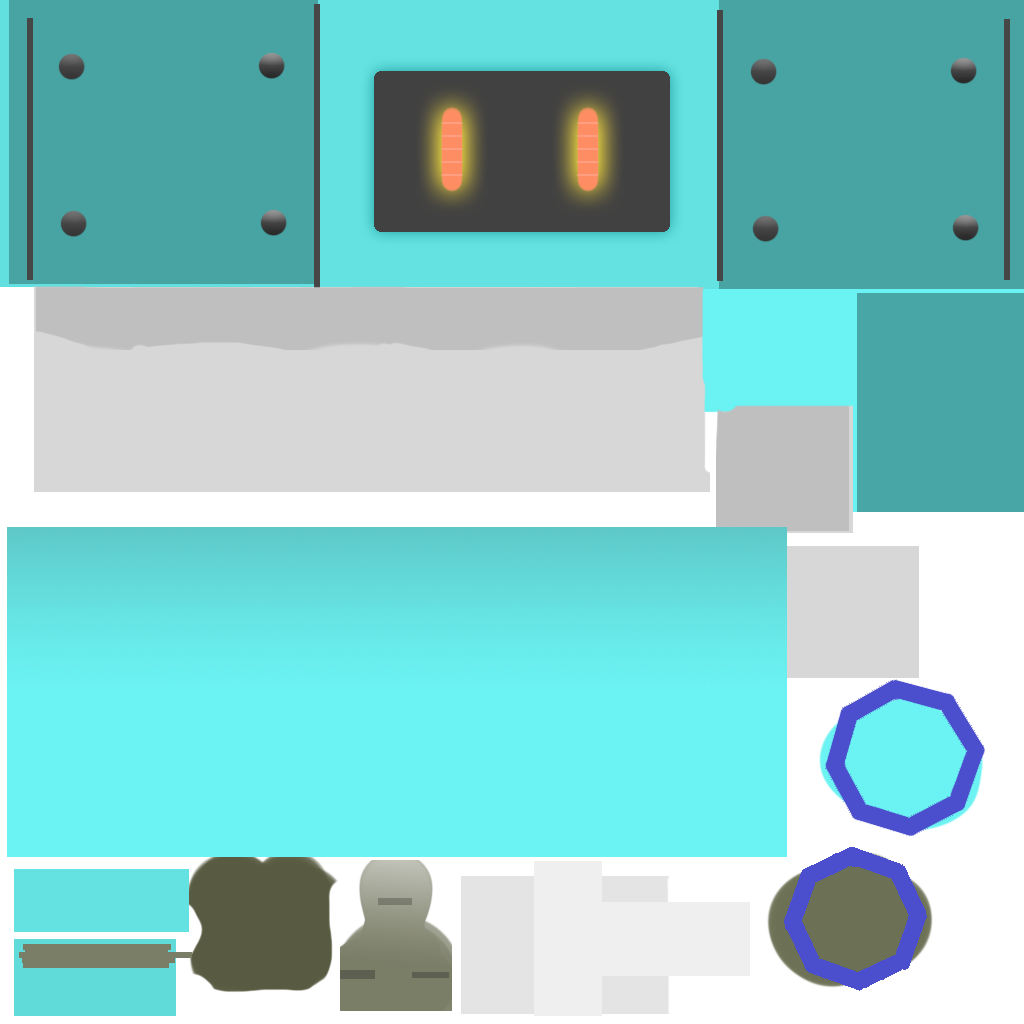
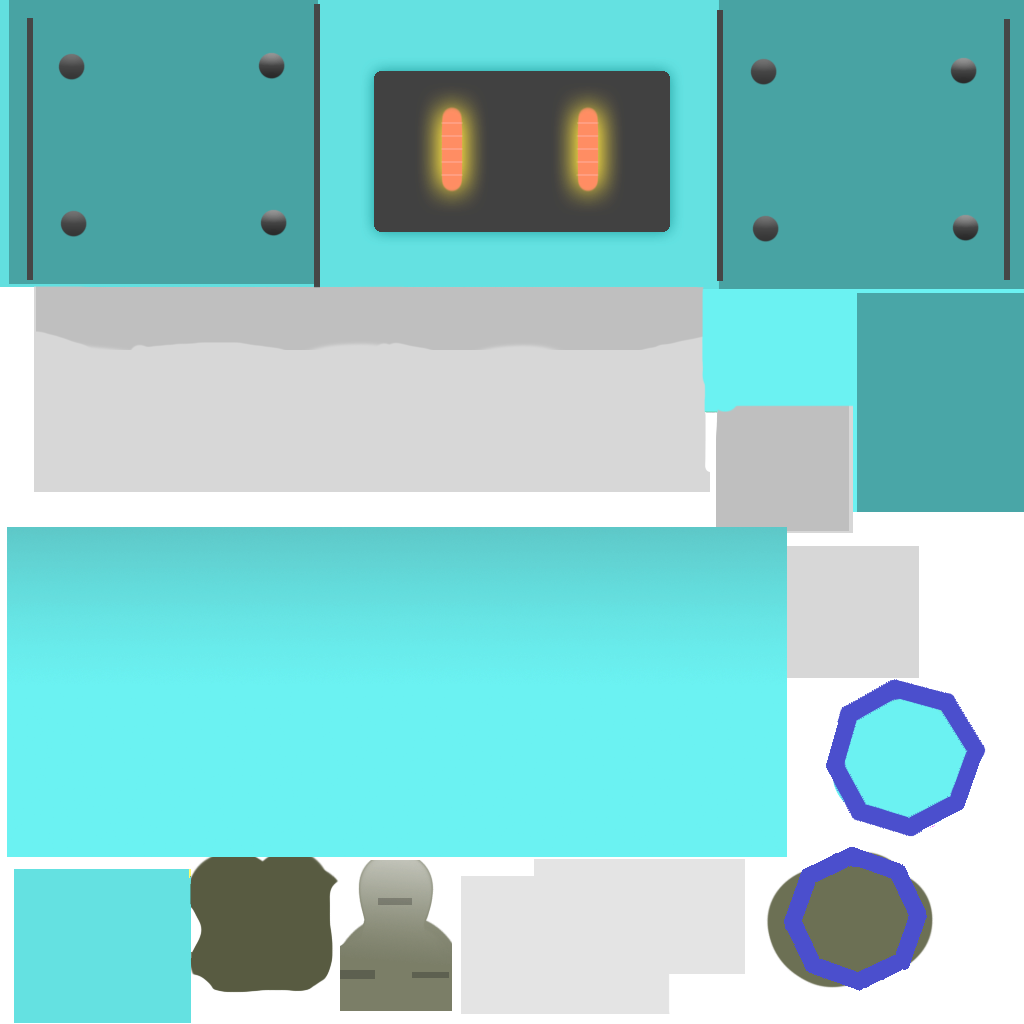
森さん手動マージ

diff --git a/ES Game Library/ES Game Library/MyClass/Scenes/SelectScene/SelectScene.h b/ES Game Library/ES Game Library/MyClass/Scenes/SelectScene/SelectScene.h
@@ -16,24 +16,38 @@ public:
 
 private:
 
+	enum { TEXTURE_MAX = 7 };
+
 	EFFECT _shader;
 	SPRITE _texture[PLAYER_COUNT_MAX];
 	SPRITE _bg_sprite;
 	SPRITE _banner;
 	SPRITE _button_ready;
 	SPRITE _button_go;
+	SPRITE _chara_frame;
+	SPRITE _button_frame;
+	SPRITE _left_arrow_A;
+	SPRITE _left_arrow_B;
+	SPRITE _right_arrow_A;
+	SPRITE _right_arrow_B;
 	ANIMATIONMODEL _player_model;
+
+	int _select_count = 0;
 
 	int _chara_select[PLAYER_COUNT_MAX];
 	float _player_position[PLAYER_COUNT_MAX];
 	bool _player_button_flag[PLAYER_COUNT_MAX];
 
-	bool _select_complete_flag;
-	enum 
+	bool _select_complete_flag[PLAYER_COUNT_MAX];
+	bool _game_start_flag = false;
+	enum
 	{
 		RED,
 		BLUE,
 		GREEN,
-		YELLOW
+		YELLOW,
+		LIGHTBLUE,
+		PINK,
+		PURPLE
 	};
 };

diff --git a/ES Game Library/ES Game Library/MyClass/Scenes/Title/TitleScene.cpp b/ES Game Library/ES Game Library/MyClass/Scenes/Title/TitleScene.cpp
@@ -66,7 +66,6 @@ int TitleScene::Update()
 void TitleScene::Draw2D()
 {
 
-
 	SpriteBatch.Draw(*_background, Vector3(0.0f, 0.0f, 10000.0f));
 
 	SpriteBatch.Draw(*_title_logo, Vector3(title_logo_position), title_logo_alpha, Vector3_Zero,
